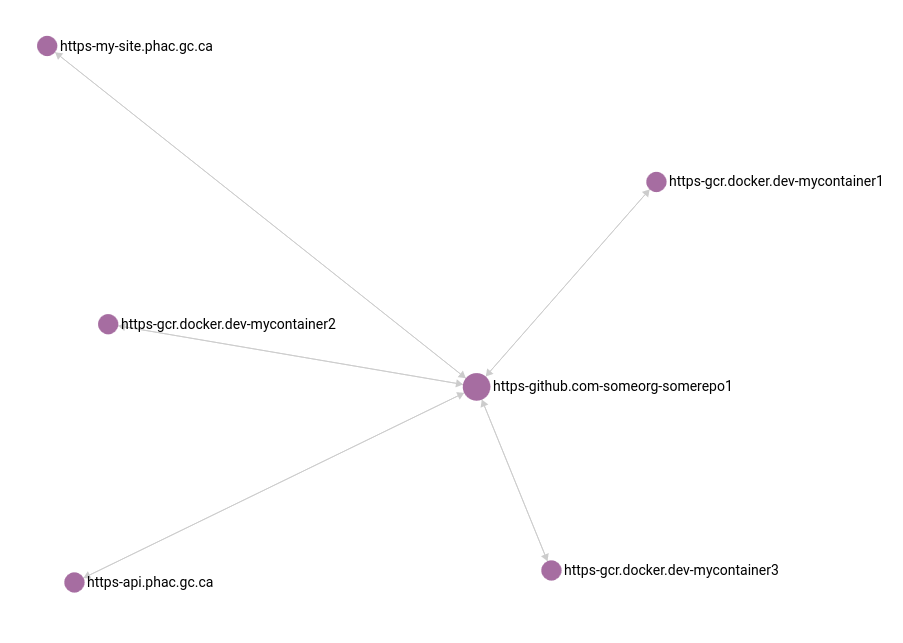
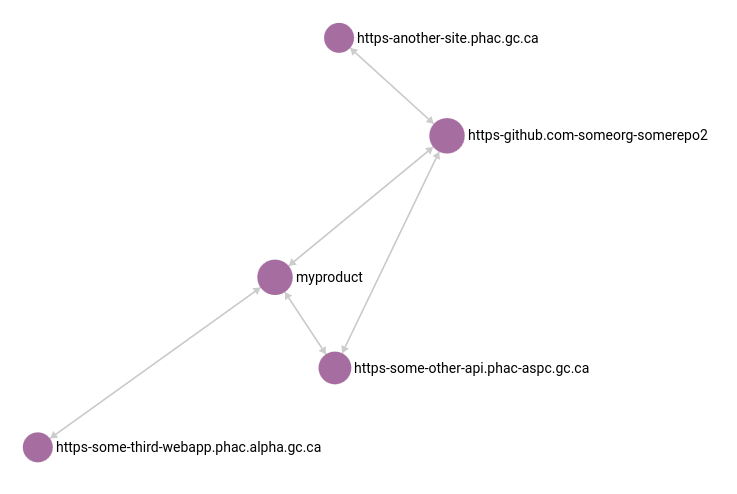
docs(graph-updater): update README.md

diff --git a/graph-updater/README.md b/graph-updater/README.md
@@ -1,30 +1,10 @@
 # Graph Updater
 
-
-## ArangoDB Graph Example
-
-![Arango graph example](docs/img/arango-graph-example.png)
-
 ## GraphQL Query Examples
 
-**Query**
+The semantics of queries is that a query for any endpoint on a subgraph returns the entire subgraph.
 
-```graphql
-query {
-  endpoint(url: "https://github.com/someorg/somerepo1")
-}
-```
-
-**Mutation**
-
-```graphql
-mutation {
-  endpoints(urls: [
-    "https://github.com/someorg/somerepo1",
-    "https://my-site.phac.gc.ca"
-  ])
-}
-```
+For example, suppose we make the following mutation:
 
 ```graphql
 mutation {
@@ -36,6 +16,10 @@ mutation {
 }
 ```
 
+This mutation creates 3 connected enpoints: `https://github.com/someorg/somerepo2`, `https://another-site.phac.gc.ca`, `https://some-other-api.phac-aspc.gc.ca`.
+
+Suppose at a later date, we make some additional associations and attach these endpoints to a product with another mutation:
+
 ```graphql
 mutation {
   product(
@@ -46,5 +30,77 @@ mutation {
       "https://some-third-webapp.phac.alpha.gc.ca"
     ]  
   )
+}
+```
+
+This mutation adds two additional nodes to the subgraph: `https://some-third-webapp.phac.alpha.gc.ca`, and a product label called `myproduct`. At this point in time, the subgraph looks like the following.
+
+![Arango graph example](docs/img/arango-graph-example.png)
+
+This graph now has the property that a search for *any* endpoint on the graph will return *all* endpoints on the graph. For example, the following graphql query returns the following result:
+
+```graphql
+query {
+  endpoint(url: "myproduct") {
+    url
+  }
+}
+```
+
+```json
+{
+  "data": {
+    "endpoint": [
+      {
+        "url": "myproduct"
+      },
+      {
+        "url": "https://github.com/someorg/somerepo2"
+      },
+      {
+        "url": "https://some-other-api.phac-aspc.gc.ca"
+      },
+      {
+        "url": "https://some-third-webapp.phac.alpha.gc.ca"
+      },
+      {
+        "url": "https://another-site.phac.gc.ca"
+      }
+    ]
+  }
+}
+```
+
+Similarly, a GraphQL query for a different vertex on the graph also returns the entire subgraph (although in a different order since the graph traversal started from a different vertex as last time).
+
+```graphql
+query {
+  endpoint(url: "https://another-site.phac.gc.ca") {
+    url
+  }
+}
+```
+
+```json
+{
+  "data": {
+    "endpoint": [
+      {
+        "url": "https://another-site.phac.gc.ca"
+      },
+      {
+        "url": "https://github.com/someorg/somerepo2"
+      },
+      {
+        "url": "https://some-other-api.phac-aspc.gc.ca"
+      },
+      {
+        "url": "myproduct"
+      },
+      {
+        "url": "https://some-third-webapp.phac.alpha.gc.ca"
+      }
+    ]
+  }
 }
 ```
